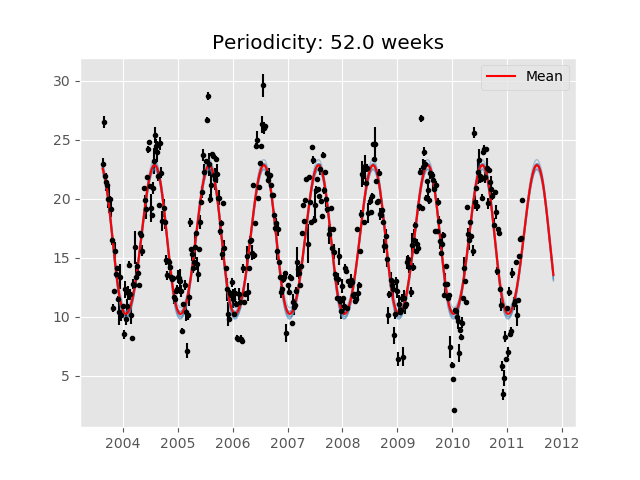
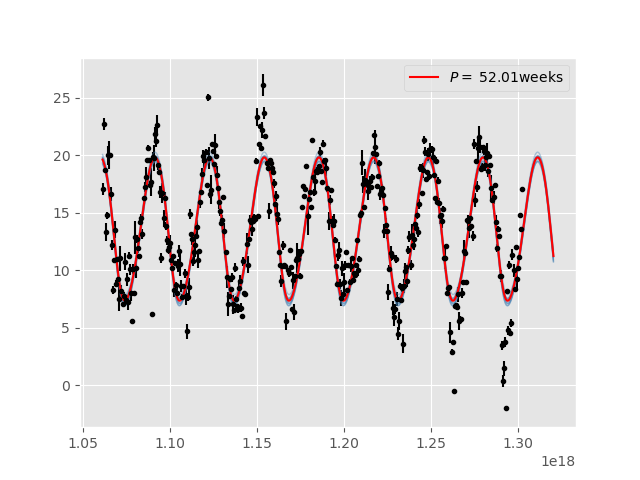
new fig

diff --git a/gp_weather.py b/gp_weather.py
@@ -14,10 +14,10 @@ def get_data():
 	df['maxtp'] = df.maxtp.apply(lambda x: 0 if x ==' ' else float(x))
 	df.index = df.date
 	
-	df_g = df.resample('1W').max()
+	df_g = df.maxtp.resample('1W', how='mean')
 
 	d = np.array(df_g.index)
-	y = np.array(df_g.maxtp)
+	y = np.array(df_g.values)
 	u = 0.5 * np.random.randn(len(d))
 	x = np.arange(len(d))
 	y[~np.isfinite(y.ravel())] = 20.
@@ -107,8 +107,7 @@ def plot_data_and_draws(d, y, u, dt, G, y_b, t=0):
 
 	plt.errorbar(d, y, yerr=u, fmt='.k')
 	plt.plot(dt, G, color='#4682b4', lw=1, alpha=0.4)
-	plt.plot(dt, y_b, label='Mean', color='r')
-	plt.title('Periodicity: {0:.1f} weeks'.format(t))
+	plt.plot(dt, y_b, label='$P =$ {0:.2f}weeks'.format(t), color='r')
 	plt.legend()
 
 	plt.show()
